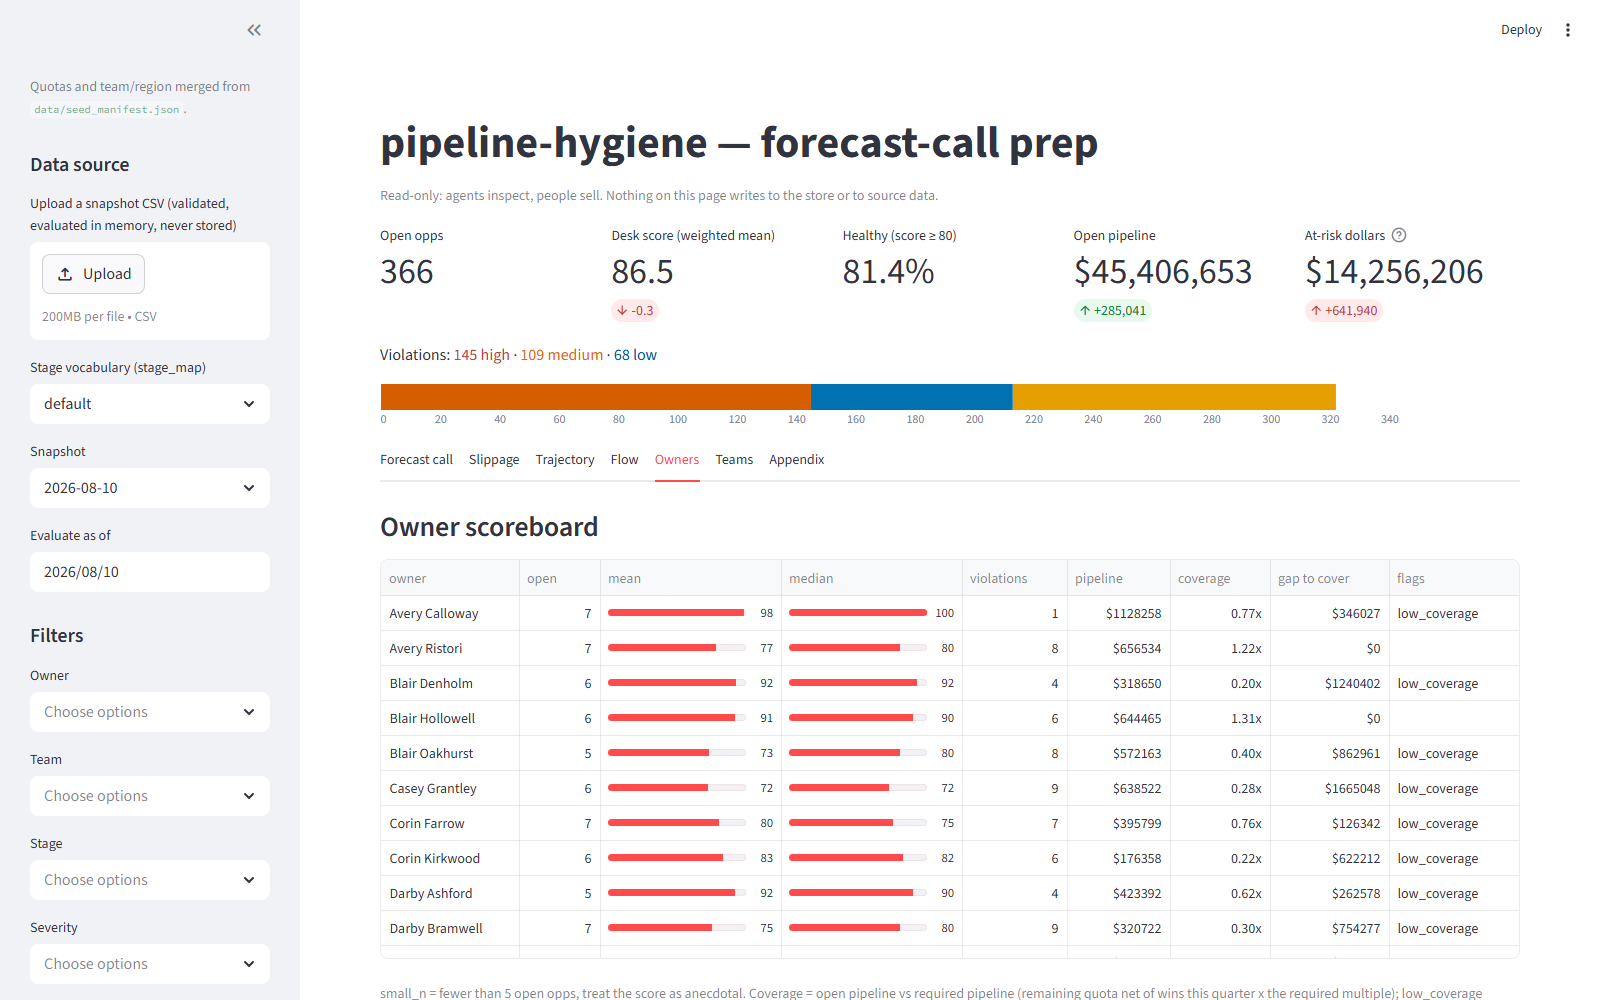
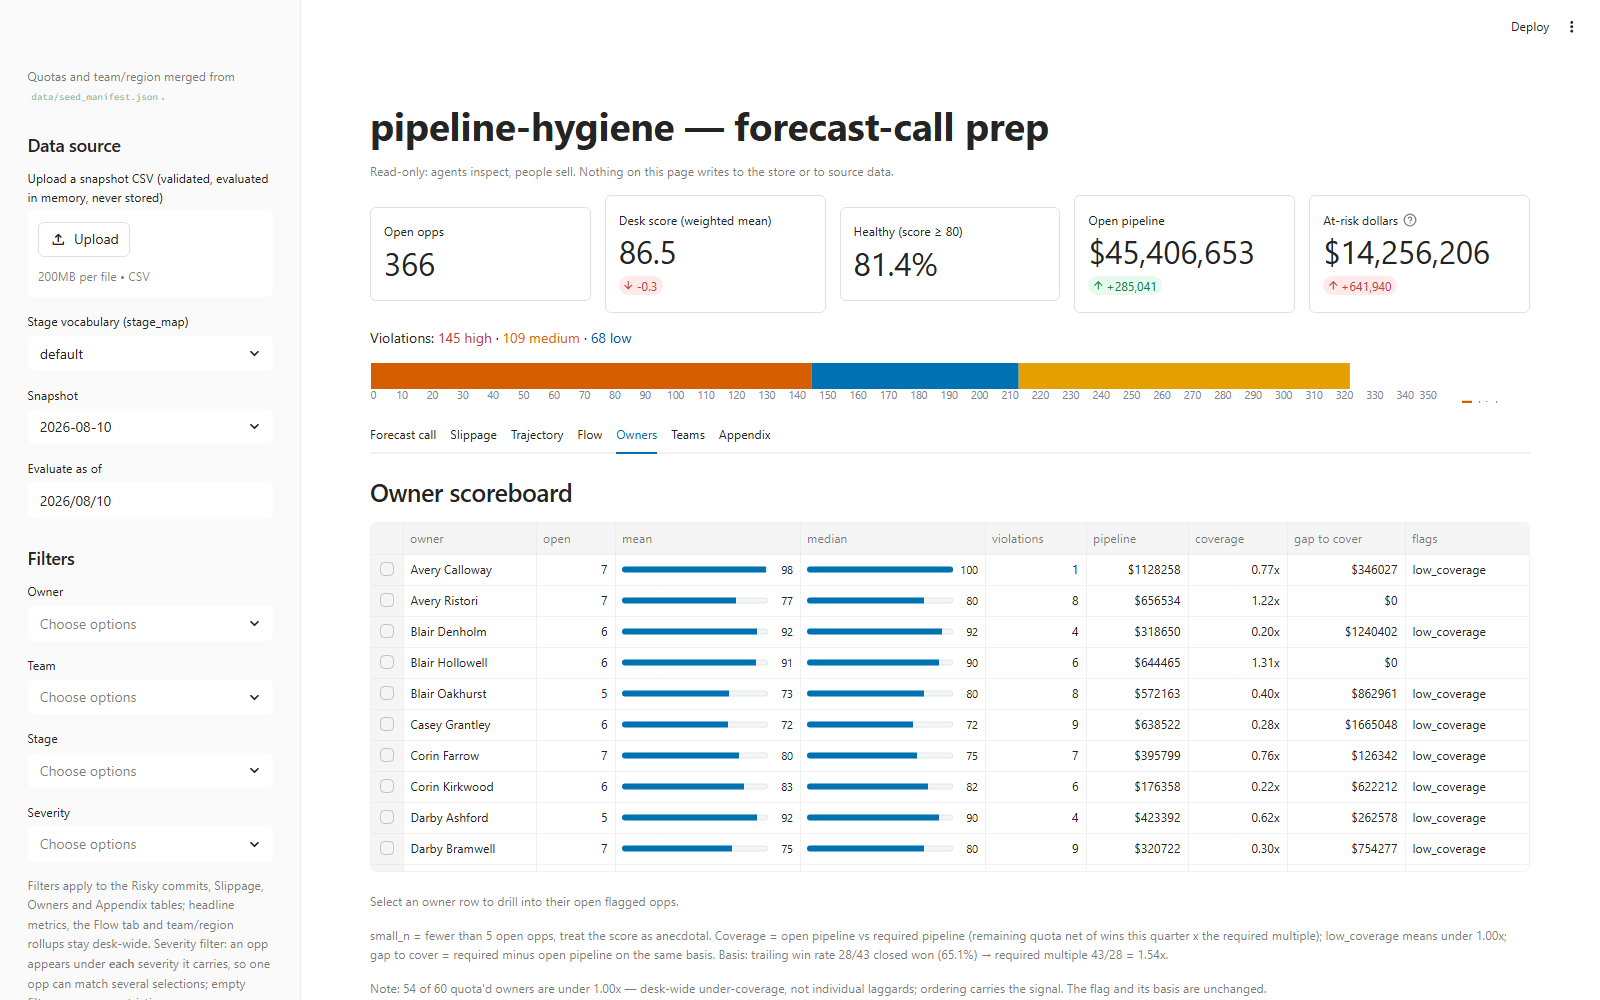
feat: light Fluent/Microsoft dashboard theme + interactivity polish
Make the read-only Streamlit dashboard more visually appealing and
interactive within the app's hard constraints (offline/loopback, no new
hard deps, Okabe-Ito colorblind palette preserved, read-only, light only).

Theming (config-only, fully offline):
- .streamlit/config.toml [theme]: light Fluent/Microsoft-web look. Segoe UI
  system stack (no CDN font, no vendored binary), accent #0072B2 (the
  Okabe-Ito low blue, which also reads as MS brand blue), rounded surfaces,
  sidebar theme, dataframe header band, and chartCategoricalColors as an
  Okabe-Ito safety net. base stays light; explicit per-chart scales kept so
  high is always vermillion.
- requirements: streamlit>=1.47 (the theme keys land there). altair left at
  >=5.0 -- no 5.5-only feature is used.

Built-in polish (no deps, no network):
- headline metrics -> bordered KPI tiles, vertically centered.
- charts: width=stretch replaces hard-coded width=950; verified full-width
  across all seven tabs on 1.57 (the pre-1.47 hidden-tab collapse is fixed).
  Compact SI axes, rounded bar tops, thicker lines.
- dense captions -> st.popover; st.divider between subheader sections.

Interactivity (read-only):
- owner scoreboard on_select single-row -> inline drill-down to that owner's
  open flagged opps via brief.owner_flagged_opps (pure, unit-tested since
  AppTest 1.57 cannot simulate dataframe selection).
- hover-to-highlight on the created-vs-closed flow chart.
[…]

diff --git a/app/dashboard.py b/app/dashboard.py
@@ -149,26 +149,30 @@ if store is not None and prev_summary is not None:
     prev_open_pipeline = sum(r["amount"] or 0.0
                              for r in prev_rows if is_open(r))
 
-cols = st.columns(5)
-cols[0].metric("Open opps", desk.n_open)
+cols = st.columns(5, gap="small", vertical_alignment="center")
+cols[0].metric("Open opps", desk.n_open, border=True)
 cols[1].metric(
     "Desk score (weighted mean)",
     "n/a" if desk.weighted_mean_score is None
     else f"{desk.weighted_mean_score:.1f}",
     delta=(None if prev_desk is None or desk.weighted_mean_score is None
            or prev_desk["weighted_mean_score"] is None
-           else f"{desk.weighted_mean_score - prev_desk['weighted_mean_score']:+.1f}"))
+           else f"{desk.weighted_mean_score - prev_desk['weighted_mean_score']:+.1f}"),
+    border=True)
 cols[2].metric(f"Healthy (score >= {config['healthy_score_threshold']})",
-               "n/a" if desk.pct_healthy is None else f"{desk.pct_healthy:.1f}%")
+               "n/a" if desk.pct_healthy is None else f"{desk.pct_healthy:.1f}%",
+               border=True)
 cols[3].metric(
     "Open pipeline", f"{CURRENCY}{open_pipeline:,.0f}",
     delta=(None if prev_open_pipeline is None
-           else f"{open_pipeline - prev_open_pipeline:+,.0f}"))
+           else f"{open_pipeline - prev_open_pipeline:+,.0f}"),
+    border=True)
 cols[4].metric(
     "At-risk dollars", f"{CURRENCY}{desk.at_risk_dollars:,.0f}",
     delta=(None if prev_desk is None
            else f"{desk.at_risk_dollars - prev_desk['at_risk_dollars']:+,.0f}"),
     delta_color="inverse",
+    border=True,
     help="Distinct open opps with at least one high-severity violation; "
          "each opp's amount counted once.")
 
@@ -186,8 +190,8 @@ st.markdown(f"Violations: :red[{severity_counts['high']} high] · "
 if sum(severity_counts.values()):
     mix = pd.DataFrame([{"severity": s, "count": n, "y": "violations"}
                         for s, n in severity_counts.items() if n])
-    # explicit pixel sizes throughout: charts inside initially-hidden tabs
-    # measure a zero-size container, so container sizing collapses them
+    # width="stretch": Streamlit >=1.47 sizes charts to the tab container even
+    # when a tab starts hidden, so no hard-coded pixel width is needed.
     st.altair_chart(
         alt.Chart(mix).mark_bar(size=26).encode(
             x=alt.X("count:Q", stack="zero", title=None),
@@ -197,7 +201,8 @@ if sum(severity_counts.values()):
                                             range=list(SEVERITY_COLORS.values())),
                             legend=alt.Legend(orient="right", title=None)),
             order=alt.Order("severity:N"),
-            tooltip=["severity", "count"]).properties(height=40, width=950))
+            tooltip=["severity", "count"]).properties(height=40),
+        width="stretch")
 
 # --- filters (apply to Slippage, Owners, Appendix tables) ---
 
@@ -267,7 +272,9 @@ def _ledger_df(entries, key_fn, label):
 def _ledger_section(entries, key_fn, label):
     """One commit-accuracy table with the standing disclaimer; degrades to a
     clear caption outside the store or with no ever-commit history."""
-    st.caption(LEDGER_CAPTION.format(min_n=config["min_opps_for_owner_score"]))
+    with st.popover("How commit accuracy is computed"):
+        st.caption(
+            LEDGER_CAPTION.format(min_n=config["min_opps_for_owner_score"]))
     if entries is None:
         st.caption("Unavailable outside the snapshot store.")
     elif not entries:
@@ -328,11 +335,13 @@ with tab_call:
 
 with tab_slip:
     st.subheader("Slipping pipeline")
-    st.caption(f"Close-date pushes observed in stored history. H11 fires on "
-               f"a single push >= {config['push_alarm_days']}d or "
-               f">= {config['cumulative_push_alarm_days']}d cumulative "
-               f"later-drift; movement per se is not risk. Review marker at "
-               f"push_count >= {config['disqualify_review_pushes']}.")
+    st.caption("Close-date pushes observed in stored history; movement per se "
+               "is not risk.")
+    with st.popover("How H11 fires"):
+        st.caption(f"H11 fires on a single push >= {config['push_alarm_days']}d "
+                   f"or >= {config['cumulative_push_alarm_days']}d cumulative "
+                   f"later-drift. Review marker at push_count >= "
+                   f"{config['disqualify_review_pushes']}.")
     open_rows = [r for r in rows if is_open(r)]
     if not any(r.get("push_count") is not None for r in open_rows):
         st.caption("No push history available (rows evaluated outside the "
@@ -403,17 +412,20 @@ with tab_traj:
                                                 var_name="series",
                                                 value_name="dollars")
         st.altair_chart(
-            alt.Chart(cov_df.dropna()).mark_line(point=True).encode(
+            alt.Chart(cov_df.dropna()).mark_line(point=True, strokeWidth=2.5)
+            .encode(
                 x=alt.X("snapshot:N", title=None),
-                y=alt.Y("dollars:Q", title=CURRENCY),
+                y=alt.Y("dollars:Q", title=CURRENCY,
+                        axis=alt.Axis(format="~s")),
                 color=alt.Color("series:N",
                                 scale=alt.Scale(range=["#0072B2", "#D55E00"]),
                                 legend=alt.Legend(title=None)),
                 tooltip=["snapshot", "series",
                          alt.Tooltip("dollars:Q", format=",.0f")])
-            .properties(height=220, width=950,
+            .properties(height=220,
                         title="Coverage: open vs required pipeline "
-                              "(1 / trailing win rate)"))
+                              "(1 / trailing win rate)"),
+            width="stretch")
         basis = (data["trajectory"]["coverage"] or {}).get("basis")
         if basis:
             st.caption(f"Coverage basis: {basis}")
@@ -427,16 +439,19 @@ with tab_traj:
         st.altair_chart(
             alt.Chart(pd.DataFrame(
                 [{"snapshot": d.isoformat(), "desk score": s}
-                 for d, s in trend])).mark_line(point=True).encode(
+                 for d, s in trend])).mark_line(point=True, strokeWidth=2.5)
+            .encode(
                 x=alt.X("snapshot:N", title=None),
                 y=alt.Y("desk score:Q",
                         scale=alt.Scale(domain=[0, 100])),
                 tooltip=["snapshot", "desk score"])
-            .properties(height=180, width=950,
-                        title="Desk score trend (snapshot-anchored)"))
+            .properties(height=180,
+                        title="Desk score trend (snapshot-anchored)"),
+            width="stretch")
     else:
         st.caption("Desk score trend appears after 2+ stored snapshots.")
 
+    st.divider()
     st.subheader("Commit accuracy by committed-for quarter")
     st.caption("Committed-for quarter = fiscal quarter of the close date "
                "when the deal was first called commit — immune to later "
@@ -471,9 +486,10 @@ with tab_flow:
                       else "in" if label.startswith("+") else "out")}
             for label, key in zip(_WF_ORDER, _WF_KEYS)])
         st.altair_chart(
-            alt.Chart(wf_df).mark_bar().encode(
+            alt.Chart(wf_df).mark_bar(cornerRadiusEnd=2).encode(
                 x=alt.X("bucket:N", sort=_WF_ORDER, title=None),
-                y=alt.Y("dollars:Q", title=CURRENCY),
+                y=alt.Y("dollars:Q", title=CURRENCY,
+                        axis=alt.Axis(format="~s")),
                 color=alt.Color(
                     "kind:N",
                     scale=alt.Scale(domain=["level", "in", "out"],
@@ -481,9 +497,10 @@ with tab_flow:
                     legend=alt.Legend(orient="right", title=None)),
                 tooltip=["bucket", "opps",
                          alt.Tooltip("dollars:Q", format=",.0f")])
-            .properties(height=240, width=950,
+            .properties(height=240,
                         title="Open-pipeline waterfall (latest snapshot "
-                              "pair)"))
+                              "pair)"),
+            width="stretch")
         pushed = latest["pushed"]
         st.caption(f"Reconciles exactly: beginning + created + increased − "
                    f"decreased − won − lost − removed = ending. Close-date "
@@ -497,9 +514,9 @@ with tab_flow:
                                  "created": w["dollars"], "opps": w["n"]}
                                 for w in pacing["weekly"]])
         pace_chart = alt.Chart(pace_df).mark_bar(
-            size=26, color=FLOW_COLORS["created"]).encode(
+            size=26, cornerRadiusEnd=2, color=FLOW_COLORS["created"]).encode(
             x=alt.X("week:N", title=None),
-            y=alt.Y("created:Q", title=CURRENCY),
+            y=alt.Y("created:Q", title=CURRENCY, axis=alt.Axis(format="~s")),
             tooltip=["week", "opps",
                      alt.Tooltip("created:Q", format=",.0f")])
         if pacing["target"]:
@@ -513,8 +530,9 @@ with tab_flow:
             pace_note = (" No pipeline_gen_weekly_target configured — no "
                          "target line is guessed.")
         st.altair_chart(pace_chart.properties(
-            height=200, width=950,
-            title="Pipeline generation: created per snapshot week"))
+            height=200,
+            title="Pipeline generation: created per snapshot week"),
+            width="stretch")
         st.caption(f"Mean {CURRENCY}{pacing['mean_dollars']:,.0f}/week over "
                    f"{len(pacing['weekly'])} snapshot pair(s).{pace_note}")
 
@@ -526,19 +544,29 @@ with tab_flow:
                 flow_records.append({"week": week, "flow": label,
                                      "dollars": w[label]["dollars"],
                                      "count": w[label]["n"]})
+        # hover a flow to highlight it and dim the others (client-side Vega,
+        # no rerun); empty=True keeps every bar full when nothing is hovered.
+        flow_hover = alt.selection_point(fields=["flow"], on="mouseover",
+                                         empty=True)
         st.altair_chart(
-            alt.Chart(pd.DataFrame(flow_records)).mark_bar().encode(
+            alt.Chart(pd.DataFrame(flow_records)).mark_bar(cornerRadiusEnd=2)
+            .encode(
                 x=alt.X("week:N", title=None),
-                y=alt.Y("dollars:Q", title=CURRENCY),
+                y=alt.Y("dollars:Q", title=CURRENCY,
+                        axis=alt.Axis(format="~s")),
                 color=alt.Color("flow:N",
                                 scale=alt.Scale(domain=list(FLOW_COLORS),
                                                 range=list(FLOW_COLORS.values())),
                                 legend=alt.Legend(title=None)),
                 xOffset="flow:N",
+                opacity=alt.condition(flow_hover, alt.value(1.0),
+                                      alt.value(0.35)),
                 tooltip=["week", "flow", "count",
                          alt.Tooltip("dollars:Q", format=",.0f")])
-            .properties(height=220, width=950,
-                        title="Created vs closed per snapshot week"))
+            .add_params(flow_hover)
+            .properties(height=220,
+                        title="Created vs closed per snapshot week"),
+            width="stretch")
 
 # --- Owners ---
 
@@ -563,13 +591,34 @@ with tab_owners:
                                if on),
         })
     if owner_records:
-        st.dataframe(
+        owner_event = st.dataframe(
             pd.DataFrame(owner_records), width="stretch", hide_index=True,
+            on_select="rerun", selection_mode="single-row",
+            key="owner_scoreboard",
             column_config={
                 "mean": _SCORE_COL, "median": _SCORE_COL,
                 "pipeline": _MONEY_COL, "gap to cover": _MONEY_COL,
                 "coverage": st.column_config.NumberColumn(format="%.2fx"),
             })
+        picked = owner_event.selection.rows
+        if picked:
+            sel_owner = owner_records[picked[0]]["owner"]
+            detail = brief.owner_flagged_opps(sel_owner, results, rows_by_id,
+                                              config)
+            st.markdown(f"**{sel_owner} — open flagged opps** "
+                        f"({len(detail)}, read-only)")
+            if detail:
+                st.dataframe(
+                    pd.DataFrame(detail), width="stretch", hide_index=True,
+                    column_config={
+                        "amount": _MONEY_COL, "score": _SCORE_COL,
+                        "detail": st.column_config.TextColumn(width="large"),
+                    })
+            else:
+                st.caption(f"{sel_owner} has no open opps with violations.")
+        else:
+            st.caption("Select an owner row to drill into their open flagged "
+                       "opps.")
     st.caption(f"small_n = fewer than {config['min_opps_for_owner_score']} "
                f"open opps, treat the score as anecdotal. Coverage = open "
                f"pipeline vs required pipeline (remaining quota net of wins "
@@ -580,6 +629,7 @@ with tab_owners:
     if desk_note:
         st.caption(desk_note)
 
+    st.divider()
     st.subheader("Forecast integrity patterns")
     st.caption("Coaching signal, not a comp input.")
     if patterns is None:
@@ -604,6 +654,7 @@ with tab_owners:
         st.caption(f"Suppressed as small_n: {small} owners with too little "
                    f"history to score.")
 
+    st.divider()
     st.subheader("Commit accuracy")
     owner_entries = (None if ledger is None else
                      [e for e in ledger
@@ -652,6 +703,7 @@ with tab_teams:
             st.dataframe(_group_df(groups), width="stretch", hide_index=True,
                          column_config=_GROUP_COLS)
 
+        st.divider()
         st.subheader("Commit accuracy by team and region")
         owner_meta = config.get("owner_meta") or {}
         _ledger_section(

diff --git a/tests/test_brief.py b/tests/test_brief.py
@@ -139,6 +139,31 @@ def test_brief_reports_insufficient_history(tmp_path, config):
             f"(reported, not counted as violations)") in markdown
 
 
+def test_owner_flagged_opps_scopes_and_ranks(tmp_path, config):
+    from src.rules import is_open
+    store, cfg, _ = _seeded_store(tmp_path, config)
+    data = brief.build(store, AS_OF, AS_OF, cfg)
+    results = data["results"]
+    rows_by_id = {r["opp_id"]: r for r in data["rows"]}
+    owner = next(rows_by_id[r.opp_id]["owner"] for r in results.values()
+                 if r.violations and is_open(rows_by_id[r.opp_id]))
+
+    recs = brief.owner_flagged_opps(owner, results, rows_by_id, cfg)
+    assert recs, "expected at least one open flagged opp for the owner"
+    # scoped to the one owner, open only, every row carries its rule badges
+    assert all(rows_by_id[rec["opp_id"]]["owner"] == owner for rec in recs)
+    assert all(is_open(rows_by_id[rec["opp_id"]]) for rec in recs)
+    assert all(rec["rules"] and rec["detail"] for rec in recs)
+    # matches the Appendix ordering: worst severity, then descending amount
+    order = {"high": 0, "medium": 1, "low": 2}
+    keys = [(order[rec["worst"]], -(rec["amount"] or 0.0), rec["opp_id"])
+            for rec in recs]
+    assert keys == sorted(keys)
+    # unknown owner -> empty (drives the "no open flagged opps" caption)
+    assert brief.owner_flagged_opps("::nobody::", results, rows_by_id,
+                                    cfg) == []
+
+
 def test_staleness_escalation_section(tmp_path, config):
     from src.rules import is_open, staleness_tier
     store, cfg, _ = _seeded_store(tmp_path, config)

diff --git a/src/brief.py b/src/brief.py
@@ -827,6 +827,34 @@ def _top_exceptions(lines, data, config):
                      f"| {streak_cell} | {detail} |")
 
 
+def owner_flagged_opps(owner, results, rows_by_id, config):
+    """Open flagged opps for one owner, worst-severity then dollar ranked.
+
+    The read-only drill-down the dashboard renders when a scoreboard row is
+    selected. Pure (no Streamlit, no store) so it is unit-testable without
+    running the app script; mirrors the Appendix exception ordering.
+    """
+    recs = []
+    for result in results.values():
+        if not result.violations:
+            continue
+        row = rows_by_id.get(result.opp_id)
+        if row is None or row["owner"] != owner or not is_open(row):
+            continue
+        worst = min(_SEV_RANK[v.severity] for v in result.violations)
+        recs.append({
+            "opp_id": result.opp_id, "account": row["account"],
+            "stage": row["stage"], "amount": row["amount"],
+            "score": opp_score(result, config),
+            "worst": ["high", "medium", "low"][worst],
+            "rules": " ".join(v.rule_id for v in result.violations),
+            "detail": "; ".join(v.detail for v in result.violations),
+            "_rank": (worst, -(row["amount"] or 0.0), result.opp_id),
+        })
+    recs.sort(key=lambda e: e.pop("_rank"))
+    return recs
+
+
 def _staleness_tiers(lines, data, config):
     """Escalation ladder over H1-stale opps, rendered only when the OPTIONAL
     staleness_escalation config block is present (absent -> the brief is

diff --git a/README.md b/README.md
@@ -119,7 +119,11 @@ structure — it never writes to the store or to source data, and viewing or
 downloading a brief from it does not record a run. The committed
 `.streamlit/config.toml` binds it to 127.0.0.1 (Streamlit's own default is
 0.0.0.0, which would serve the private digest data to the network) —
-override deliberately if you mean to serve it. Every view shares the
+override deliberately if you mean to serve it. The same file carries a light
+Fluent/Microsoft-web `[theme]` (Segoe UI system stack, no CDN fonts; accent
+`#0072B2`, the Okabe-Ito "low" blue that doubles as Microsoft brand blue) —
+pure config, so it needs Streamlit >=1.47 to render and degrades to plainer
+defaults below that. Every view shares the
 same headline: an `st.metric` row with week-over-week delta arrows wired to
 since-last-run (desk score, open pipeline, at-risk dollars — at-risk uses
 `delta_color="inverse"` so rising risk reads red), the violation counts as
@@ -447,11 +451,14 @@ never by running the rules engine, so the comparison is non-circular.
 - Dashboard tabs mirror the brief structure (Forecast call landing,
   Slippage, Trajectory, Flow, Owners, Teams, Appendix) rather than
   inventing a second information architecture; each tab is designed to fit one screen. Charts
-  are Streamlit built-ins + bundled Altair only, with explicit pixel sizes
-  and right-side legends: container-sized charts collapse when rendered
-  inside an initially hidden tab, and `alt.Legend(orient="bottom")`
-  collapses the plot area under Streamlit's Vega theme (both verified
-  empirically). Severity palette is Okabe-Ito (colorblind-safe) everywhere;
+  are Streamlit built-ins + bundled Altair only, sized with `width="stretch"`
+  and right-side legends. `width="stretch"` fills the tab responsively;
+  Streamlit >=1.47 measures the container correctly even for a chart in an
+  initially hidden tab, so the old pre-1.47 hidden-tab collapse workaround
+  (hard-coded pixel widths) is gone — verified full-width across all seven
+  tabs with headless Playwright. `alt.Legend(orient="bottom")` still
+  collapses the plot area under Streamlit's Vega theme, so legends stay on
+  the right. Severity palette is Okabe-Ito (colorblind-safe) everywhere;
   colored text chips (:red[] etc.) instead of emoji.
 - Task 12 disclosure: `tests/test_dashboard.py` (added during PR #2 review;
   not one of the original 50) asserted the pre-redesign layout literally
